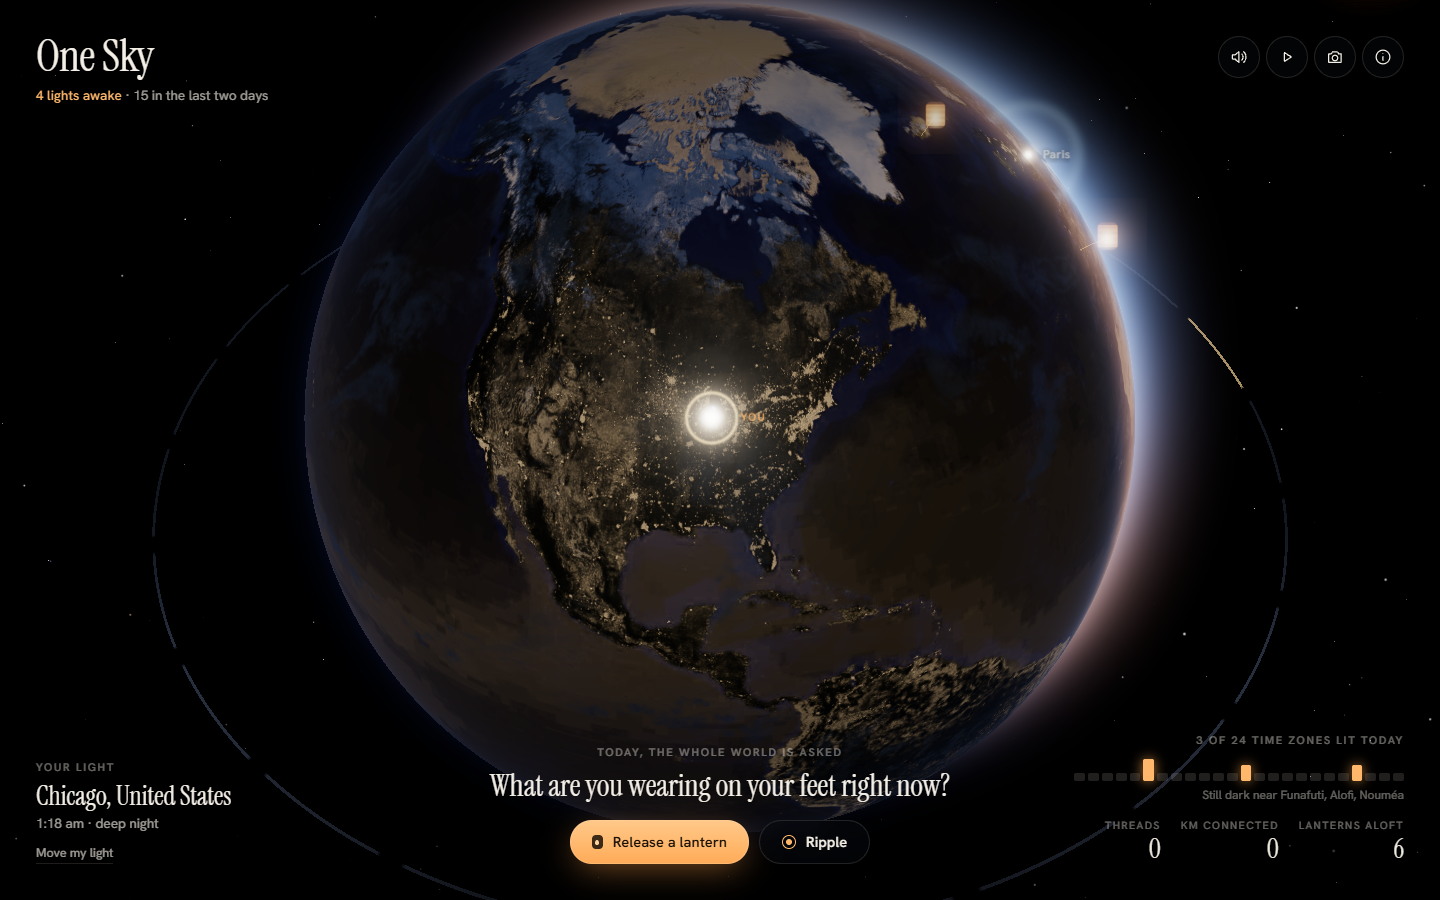
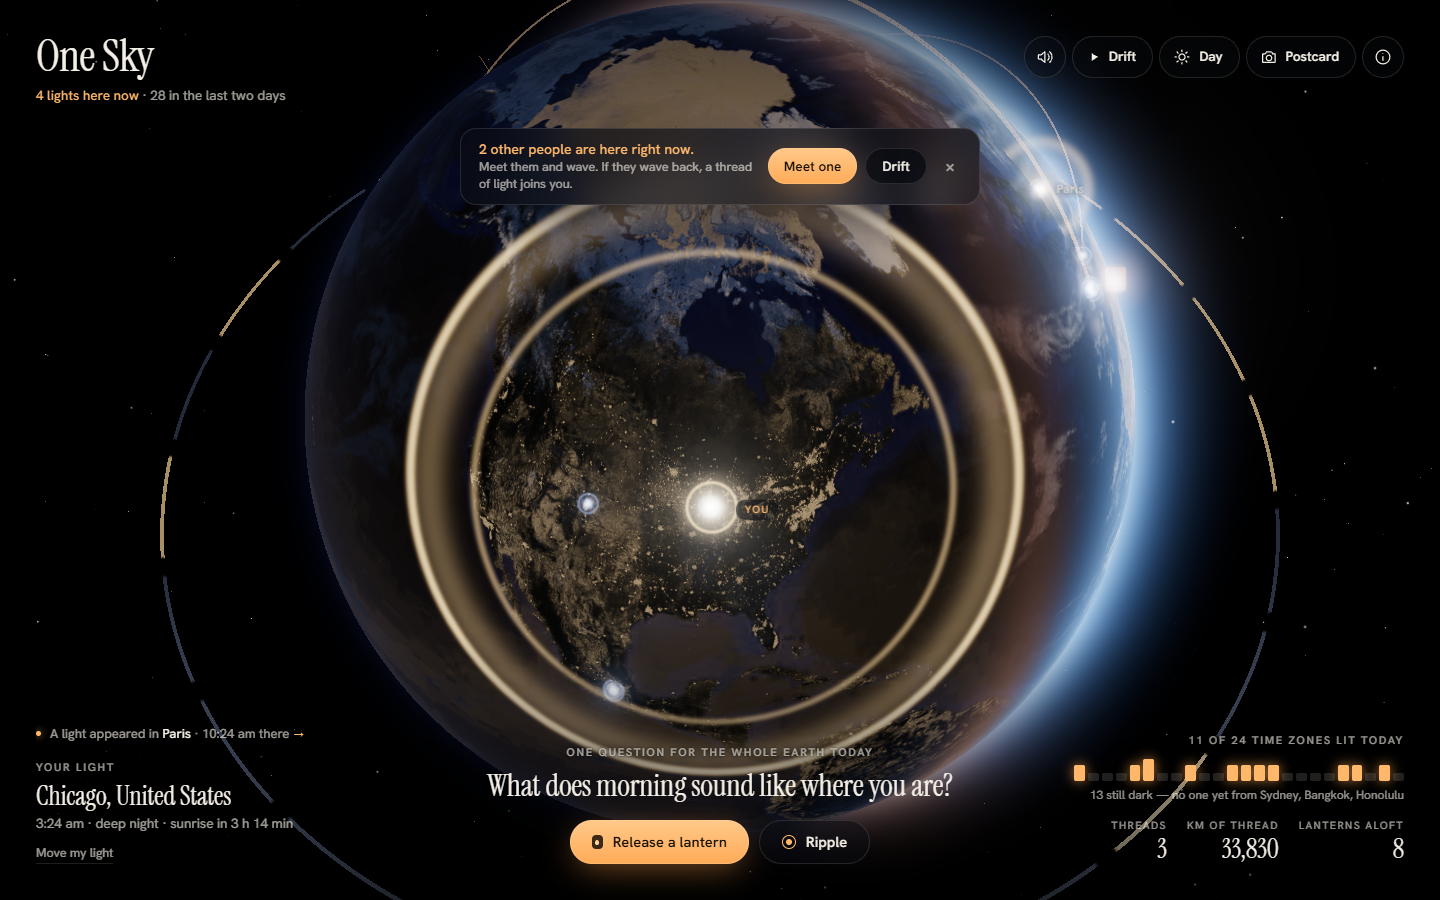
Second visitor pass: remembered threads, live echo cards, coach cards with person-shaped actions, thread camera, postcard framing, copy

diff --git a/src/main.ts b/src/main.ts
@@ -9,7 +9,7 @@ import { AudioEngine } from './audio/engine';
 import { placeForTimeZone, placeForOffset, searchPlaces, jitter, PLACES, type Place } from './lib/tz';
 import { localTimeString, zoneIndex, zoneLabel, utcDay, relativeTime, utcOffsetMinutes } from './lib/time';
 import { skyState, solarElevation } from './lib/sun';
-import { greatCircleKm, formatKm } from './lib/geo';
+import { greatCircleKm, formatKm, latLonToVec3, vec3ToLatLon } from './lib/geo';
 import { questionForDay, QUESTIONS } from './lib/questions';
 import { cleanLantern, reasonMessage, MAX_LANTERN_LENGTH } from './lib/moderation';
 import { $, h, rich, modal, isModalOpen, toast, feed, countTo } from './ui/dom';
@@ -54,6 +54,10 @@ const wavedBy = new Map<string, number>();      // uid → when they last waved 
 const waveToasts = new Map<string, () => void>(); // uid → dismiss their pending "waved at you" banner
 let ringWasComplete = false;
 const threadedWith = new Set<string>();     // uids I already share a thread with
+const threadedAt = new Map<string, number>(); // uid → when our thread formed (this session)
+let lastUserMove = 0;
+let dismissCoach: (() => void) | null = null; // the first-visit hint goes away once the visitor acts
+const nearPt = (a: { lat: number; lon: number }, lat: number, lon: number) => Math.abs(a.lat - lat) < 0.005 && Math.abs(a.lon - lon) < 0.005;
 let pendingEchoWaves: import('./net/sky').EchoWave[] = [];
 
 const echoKey = (e: Echo) => `echo:${e.eid ?? `${e.lat},${e.lon},${e.place}`}`;
@@ -84,6 +88,37 @@ function refreshLights() {
   renderCensus();
 }
 
+/** Work out, from my own threads, which of the people here now I am already joined to. */
+function syncThreaded() {
+  for (const id of marks.threads) {
+    const t = threads.get(id);
+    if (!t) continue;
+    const mineIsA = nearPt(me, t.a_lat, t.a_lon), mineIsB = nearPt(me, t.b_lat, t.b_lon);
+    if (!mineIsA && !mineIsB) continue;
+    const oLat = mineIsA ? t.b_lat : t.a_lat, oLon = mineIsA ? t.b_lon : t.a_lon;
+    for (const p of others()) if (nearPt(p, oLat, oLon)) threadedWith.add(p.id);
+  }
+}
+
+/** Go to the most recent echo and open it. */
+function findEcho() {
+  const e = echoes.find((x) => x.eid) ?? echoes[0];
+  if (e) select({ type: 'light', id: echoKey(e) });
+}
+
+/** Pull back so a new thread can be seen whole, then come home. */
+function showThread(t: Thread) {
+  const a = latLonToVec3(t.a_lat, t.a_lon), b = latLonToVec3(t.b_lat, t.b_lon);
+  const sum: [number, number, number] = [a[0] + b[0], a[1] + b[1], a[2] + b[2]];
+  const len = Math.hypot(sum[0], sum[1], sum[2]);
+  if (len < 0.25 || reducedMotion) return; // nearly opposite sides of the planet: no single view shows both
+  const mid = vec3ToLatLon([sum[0] / len, sum[1] / len, sum[2] / len]);
+  const spread = Math.acos(Math.max(-1, Math.min(1, a[0] * b[0] + a[1] * b[1] + a[2] * b[2])));
+  const started = Date.now();
+  void globe.flyTo(mid.lat, mid.lon, Math.max(globe.homeDist(), 3.3 + spread * 0.95), 1800);
+  setTimeout(() => { if (lastUserMove < started && !selection) void globe.flyTo(me.lat + (me.lat >= 0 ? 9 : -9), me.lon, globe.homeDist(), 2200); }, 6500);
+}
+
 function refreshLanterns() {
   globe.setLanterns([...lanterns.values()].map((l) => ({ id: l.id, lat: l.lat, lon: l.lon, warmth: l.warmth, mine: marks.lanterns.has(l.id) })));
   countTo($('st-lanterns'), lanterns.size);
@@ -101,7 +136,11 @@ function renderCensus() {
   el.classList.toggle('go', entered && n > 1);
   el.append(h('b', {}, live));
   if (stats.lights_48h >= 25) el.append(h('span', { class: 'wide' }, ` · ${stats.lights_48h.toLocaleString('en-US')} in the last two days`));
-  else if (echoes.length >= 2) el.append(h('span', { class: 'wide' }, ` · ${echoes.length} echoes of earlier visitors`));
+  else if (echoes.length >= 1) {
+    const link = h('span', { class: 'go', role: 'button', tabindex: '0' }, `${echoes.length} ${echoes.length === 1 ? 'echo' : 'echoes'} of earlier visitors`);
+    link.addEventListener('click', (e) => { e.stopPropagation(); if (entered) findEcho(); });
+    el.append(h('span', { class: 'wide' }, ' · ', link));
+  }
 }
 
 /** A place where the sun is on the horizon right now, if any. */
@@ -301,10 +340,13 @@ function selectionPoint(): { lat: number; lon: number; r?: number } | null {
 
 const card = $('card');
 let repaintLantern: (() => void) | null = null;
-function closeCard() { if (drift) stopDrift(); repaintLantern = null; selection = null; card.hidden = true; card.replaceChildren(); globe.autoRotate = true; }
+function closeCard() {
+  if (selection && innerWidth <= 1000 && !drift && entered) void globe.flyTo(me.lat + (me.lat >= 0 ? 9 : -9), me.lon, globe.homeDist(), 1300);
+  if (drift) stopDrift(); repaintLantern = null; selection = null; card.hidden = true; card.replaceChildren(); globe.autoRotate = true; }
 
 function select(pick: Pick | null, fly = true) {
   if (!pick) { closeCard(); return; }
+  dismissCoach?.(); dismissCoach = null;
   selection = pick;
   globe.autoRotate = false;
   const pt = selectionPoint();
@@ -339,7 +381,7 @@ function renderPersonCard(id: string) {
   const theyWaved = Date.now() - (wavedBy.get(id) ?? 0) < 10 * 60 * 1000;
   const cooling = Date.now() - (wavedAt.get(id) ?? 0) < 8000;
   const joined = threadedWith.has(id);
-  const note = h('p', { class: 'note' }, joined ? 'A thread of light already joins you two.' : theyWaved ? 'They waved at you. Wave back and a thread of light will join you.' : 'If they wave back, a thread of light stays between you.');
+  const note = h('p', { class: 'note' }, joined ? 'A thread of light joins you two.' : theyWaved ? 'They waved at you. Wave back and a thread of light will join you.' : 'If they wave back, a thread of light stays between you.');
   const btn = h('button', { class: joined ? 'btn ghost' : 'btn primary', disabled: cooling }, cooling ? 'Wave sent' : joined ? 'Wave again' : theyWaved ? 'Wave back' : 'Wave');
   btn.addEventListener('click', () => { void doWave(p); });
   const sk = skyState(p.lat, p.lon, new Date());
@@ -347,7 +389,7 @@ function renderPersonCard(id: string) {
     h('div', { class: `skybar sky-${sk.replace(' ', '-')}`, role: 'img', 'aria-label': `Their sky: ${sk}` }),
     h('p', { class: 'eyebrow' }, 'A light, here right now'),
     h('h2', {}, p.city),
-    h('p', { class: 'sub' }, p.country || ' '),
+    h('p', { class: 'sub' }, p.country && p.country !== p.city ? p.country : ' '),
     facts([
       ['their time', localTimeString(p.tz)],
       ['their sky', skyState(p.lat, p.lon, new Date())],
@@ -379,7 +421,7 @@ function renderEchoCard(id: string) {
       try {
         await sky.waveEcho(e.eid!);
         store.set('onesky.echoWaved', (left + ',' + e.eid).slice(-2000));
-        note.textContent = 'Your wave is waiting for them. They will find it when they return — and you’ll be an echo they can answer.';
+        note.textContent = 'Your wave is waiting. They’ll see it the moment they return.';
         feed(rich(['Your wave is waiting in ', { b: e.place }, ' for when they return']));
       } catch (err: any) {
         btn.disabled = false; btn.textContent = 'Leave a wave';
@@ -498,7 +540,7 @@ async function doWave(p: Person) {
   try {
     const t = await sky.wave(p);
     await landed;
-    if (t) { marks.threads.add(t.id); threadedWith.add(p.id); addThread(t, true, { mine: true, other: p.city }); if (selection?.id === p.id) renderCard(); }
+    if (t) { marks.threads.add(t.id); threadedWith.add(p.id); threadedAt.set(p.id, Date.now()); addThread(t, true, { mine: true, other: p.city }); }
     else feed(rich(['Your wave reached ', { b: p.city }, threadedWith.has(p.id) ? '' : ' — if they wave back, you’re joined']));
   } catch (e: any) {
     toast(rich([String(e?.message).includes('rate_limited') ? 'That’s a lot of waving. Give it a minute.' : 'That wave didn’t get through. Try again in a moment.']), { plain: true });
@@ -515,6 +557,8 @@ function addThread(t: Thread, animate: boolean, opts: { mine?: boolean; other?: 
   stats.threads_total += 1; stats.km_total += t.km; renderStats();
   if (opts.mine) {
     audio.thread(t.km);
+    closeCard();
+    setTimeout(() => showThread(t), 400);
     toast(rich([{ b: `A thread now joins you and someone in ${opts.other}.` }, { small: `${formatKm(t.km)} of light between you. It stays on the Earth for everyone to see.` }]), { ms: 14000 });
   } else if (entered) {
     feed(rich(['A thread now joins ', { b: t.a_place }, ' and ', { b: t.b_place }, ` · ${formatKm(t.km)}`]), false, () => { closeCard(); void globe.flyTo((t.a_lat + t.b_lat) / 2, t.a_lon, undefined, 1400); });
@@ -529,6 +573,7 @@ function doRipple() {
   const now = Date.now();
   if (now - lastRipple < 4000) return;
   lastRipple = now;
+  dismissCoach?.(); dismissCoach = null;
   globe.ripple(me.lat, me.lon);
   audio.ringSegment(Math.round(((me.lon + 180) / 360) * 23));
   sky.sendRipple();
@@ -543,7 +588,7 @@ function doRipple() {
   let near: Place | null = null, bd = 1e9;
   for (const p of PLACES) { const d = greatCircleKm(anti.lat, anti.lon, p.lat, p.lon); if (d < bd) { bd = d; near = p; } }
   const closing = near;
-  setTimeout(() => { if (closing) feed(rich(['Your ripple met itself on the far side of the Earth, ', { b: bd < 600 ? `near ${closing.city}` : `${formatKm(bd)} from ${closing.city}` }]), true); }, 5200);
+  setTimeout(() => { if (closing) feed(rich(bd < 600 ? ['Your ripple circled the Earth and met itself near ', { b: closing.city }] : ['Your ripple circled the Earth and met itself at sea, ', { b: `${formatKm(bd)} from ${closing.city}` }]), true); }, 5200);
 }
 
 // ───────────────────────── drift (a slow tour of the lanterns) ─────────────────────────
@@ -643,6 +688,7 @@ const LANTERN_ERRORS: Record<string, string> = {
 
 function openComposer() {
   if (!entered) return;
+  dismissCoach?.(); dismissCoach = null;
   modal((close) => {
     const ta = h('textarea', { rows: 3, maxlength: MAX_LANTERN_LENGTH, placeholder: 'One or two sentences…', 'aria-label': 'Your answer', 'data-autofocus': true });
     const count = h('span', { class: 'count' }, `${MAX_LANTERN_LENGTH} left`);
@@ -743,7 +789,8 @@ function openAbout() {
       h('div', {}, h('i', { class: 'b' }), h('p', {}, h('strong', {}, 'An echo'), ' is someone who was here in the last two days and has gone. Leave them a wave; they get it when they come back. ', h('strong', {}, 'A soft ring'), ' on the ground is where someone else is looking right now.')),
     ),
     h('p', {}, h('strong', {}, 'Privacy.'), ' No account, no name, no tracking. Your light sits near the main city of your time zone — taken from your device’s clock, not your location — and you can move it. Lanterns are public and anonymous.'),
-    h('p', { class: 'fine' }, 'Nobody on this globe is simulated. Earth imagery: NASA Blue Marble and Black Marble. Drag to turn, scroll or pinch to zoom. Keyboard: arrows turn, + and − zoom, [ and ] step through lights and lanterns, Enter acts, R sends a ripple, D watches a day pass.'),
+    h('p', { class: 'fine' }, 'Nobody on this globe is simulated. Earth imagery: NASA Blue Marble and Black Marble. Drag to turn, scroll or pinch to zoom.'),
+    h('p', { class: 'fine keys-note' }, 'Keyboard: arrows turn, + and − zoom, [ and ] step through lights and lanterns, Enter acts, R sends a ripple, D watches a day pass.'),
   ), { label: 'About One Sky' });
 }
 
@@ -751,6 +798,7 @@ function openAbout() {
 
 async function openPostcard() {
   stopDrift();
+  if (!selection) await globe.flyTo(Math.max(-70, Math.min(70, me.lat + (me.lat >= 0 ? 9 : -9))), me.lon, globe.homeDist(), 700);
   const shot = globe.capture();
   const url = await makePostcard(shot, {
     place: me.city, lights: liveCount(), zones: zonesLit.size, threads: stats.threads_total, km: stats.km_total, question: question.text,
@@ -782,6 +830,12 @@ function wireSky() {
 
   sky.on('people', (_all, joined, left) => {
     refreshLights();
+    syncThreaded();
+    if (selection?.id.startsWith('echo:')) {
+      const e = echoById(selection.id);
+      const back = e && joined.find((p) => p.id !== sky.uid && nearPt(p, e.lat, e.lon));
+      if (back) select({ type: 'light', id: back.id }, false);
+    }
     if (entered) {
       for (const p of joined.slice(0, 4)) {
         if (p.id === sky.uid) continue;
@@ -792,7 +846,7 @@ function wireSky() {
       left.forEach((p, i) => {
         if (p.id === sky.uid) return;
         globe.dropGaze(p.id);
-        if (i < 4) feed(rich(['The light in ', { b: p.city }, ' has left']), true);
+        if (i < 4) feed(rich(['The light in ', { b: p.city }, ' has left']), true, () => { const e = echoes.find((x) => nearPt(x, p.lat, p.lon)); if (e) select({ type: 'light', id: echoKey(e) }); });
         // they become an echo straight away
         const known = echoes.find((x) => Math.abs(x.lat - p.lat) < 0.002 && Math.abs(x.lon - p.lon) < 0.002);
         if (known) known.last_seen = new Date().toISOString();
@@ -823,7 +877,7 @@ function wireSky() {
       const goTo = () => { const p = sky.people.get(from.id); if (p) select({ type: 'light', id: p.id }); };
       if (threadedWith.has(from.id)) {
         // already joined: a light touch, no prompt
-        feed(rich([{ b: from.city }, ' waved at you again']), false, goTo);
+        if (Date.now() - (threadedAt.get(from.id) ?? 0) > 20000) feed(rich([{ b: from.city }, ' waved at you again']), false, goTo);
         return;
       }
       waveToasts.get(from.id)?.();
@@ -852,9 +906,8 @@ function wireSky() {
           marks.threads.add(t.id);
           const mineIsA = near(t.a_lat, t.a_lon);
           const oLat = mineIsA ? t.b_lat : t.a_lat, oLon = mineIsA ? t.b_lon : t.a_lon;
-          for (const p of others()) if (Math.abs(p.lat - oLat) < 0.005 && Math.abs(p.lon - oLon) < 0.005) { threadedWith.add(p.id); waveToasts.get(p.id)?.(); }
+          for (const p of others()) if (Math.abs(p.lat - oLat) < 0.005 && Math.abs(p.lon - oLon) < 0.005) { threadedWith.add(p.id); threadedAt.set(p.id, Date.now()); waveToasts.get(p.id)?.(); }
           addThread(t, true, { mine: true, other: mineIsA ? t.b_place : t.a_place });
-          if (selection?.type === 'light') renderCard();
           return;
         }
       }
@@ -899,7 +952,7 @@ async function loadWorld() {
   if (st) stats = st;
   for (const z of zs) zonesLit.set(z.zone, z);
   ringWasComplete = zonesLit.size === 24;
-  refreshLanterns(); refreshLights(); renderStats(); renderRing(false);
+  refreshLanterns(); refreshLights(); renderStats(); renderRing(false); syncThreaded();
   pendingEchoWaves = await sky.collectEchoWaves().catch(() => []);
 }
 
@@ -964,18 +1017,19 @@ function receiveEchoWaves() {
   }, i * 700));
   const first = waves[0];
   const rest = waves.length - 1;
+  const liveNow = () => others().find((p) => nearPt(p, first.lat, first.lon));
   const answer = () => {
-    // if they are here now, open their light; otherwise go to where their echo is
-    const live = others().find((p) => Math.abs(p.lat - first.lat) < 0.005 && Math.abs(p.lon - first.lon) < 0.005);
-    if (live) { select({ type: 'light', id: live.id }); return; }
-    const echo = echoes.find((e) => Math.abs(e.lat - first.lat) < 0.005 && Math.abs(e.lon - first.lon) < 0.005);
+    // if they are here now, wave straight back; otherwise open their echo so a wave can be left
+    const live = liveNow();
+    if (live) { select({ type: 'light', id: live.id }); void doWave(live); return; }
+    const echo = echoes.find((e) => nearPt(e, first.lat, first.lon));
     if (echo) select({ type: 'light', id: echoKey(echo) });
     else void globe.flyTo(first.lat, first.lon, undefined, 1400);
   };
   toast(rich([
     { b: waves.length === 1 ? `While you were away, someone in ${first.place} waved at you.` : `While you were away, ${waves.length} people waved at you.` },
-    { small: waves.length === 1 ? `${relativeTime(first.created_at)} · they waved at the place your light had been` : `${first.place}${rest === 1 ? ' and one other place' : ` and ${rest} other places`} · at the place your light had been` },
-  ]), { sticky: true, action: { label: waves.length === 1 ? 'Answer them' : 'See the nearest', run: answer } });
+    { small: waves.length === 1 ? `${relativeTime(first.created_at)} · ${liveNow() ? 'and they are still here' : 'they left it where your light had been'}` : `${first.place}${rest === 1 ? ' and one other place' : ` and ${rest} other places`} · at the place your light had been` },
+  ]), { sticky: true, action: { label: liveNow() ? 'Wave back' : 'Find their echo', run: answer } });
 }
 
 /** On return: has anyone warmed my lanterns since I last looked? */
@@ -1055,13 +1109,15 @@ async function enter() {
     setTimeout(() => {
       const n = others().length;
       const copyLink = async () => { try { await navigator.clipboard.writeText(location.href.split(/[?#]/)[0]); toast(rich(['Link copied. Send it to someone and watch their light appear.']), { plain: true }); } catch { /* clipboard unavailable */ } };
-      if (n > 0) toast(
-        rich([{ b: 'Select a bright light to meet that person — and wave.' }, { small: 'Drag to turn the Earth. Or press Day to watch the next 24 hours pass.' }]),
-        { plain: true, ms: 14000, actions: lanterns.size ? [{ label: 'Drift through the lanterns', run: startDrift }] : [] },
-      );
-      else toast(
-        rich([{ b: 'Yours is the only light here right now.' }, { small: echoes.length ? 'Send a ripple around the Earth, leave a wave on a blue echo — or invite someone and watch their light appear.' : 'Send a ripple around the Earth — or invite someone and watch their light appear.' }]),
-        { plain: true, ms: 20000, actions: [{ label: 'Send a ripple', run: doRipple }, { label: 'Copy link', run: () => void copyLink(), quiet: true }] },
+      if (n > 0) {
+        const them = others()[0];
+        dismissCoach = toast(
+          rich([{ b: n === 1 ? `Someone in ${them.city} is here right now.` : `${n} other people are here right now.` }, { small: 'Meet them and wave. If they wave back, a thread of light joins you.' }]),
+          { plain: true, sticky: true, actions: [{ label: n === 1 ? 'Meet them' : 'Meet one', run: () => { const p = sky.people.get(them.id) ?? others()[0]; if (p) select({ type: 'light', id: p.id }); } }, ...(lanterns.size ? [{ label: 'Drift', run: startDrift, quiet: true }] : [])] },
+        );
+      } else dismissCoach = toast(
+        rich([{ b: 'Yours is the only light here right now.' }, { small: echoes.length ? 'Send a ripple around the Earth. Or find an echo — someone who was here earlier — and leave them a wave.' : 'Send a ripple around the Earth — or invite someone and watch their light appear.' }]),
+        { plain: true, sticky: true, actions: [{ label: 'Send a ripple', run: doRipple }, ...(echoes.length ? [{ label: 'Find an echo', run: findEcho, quiet: true }] : []), { label: 'Copy link', run: () => void copyLink(), quiet: true }] },
       );
     }, 1600);
   }
@@ -1090,6 +1146,7 @@ function boot() {
   buildRingStrip(); renderYou(); renderCensus(); updateArrivalCount();
 
   globe.onFrame(updateLabels);
+  globe.onUserMove = () => { lastUserMove = Date.now(); };
   globe.onTap = (pick, ev) => {
     if (!entered || isModalOpen()) return;
     const hadSelection = !!selection;

diff --git a/src/ui/postcard.ts b/src/ui/postcard.ts
@@ -57,10 +57,10 @@ export async function makePostcard(shot: string, info: PostcardInfo): Promise<st
 
   // numbers, bottom left
   const cols: [string, string][] = [
-    [String(info.lights), info.lights === 1 ? 'light awake' : 'lights awake'],
+    [String(info.lights), info.lights === 1 ? 'light here now' : 'lights here now'],
     [`${info.zones}/24`, 'time zones lit'],
     [info.threads.toLocaleString('en-US'), info.threads === 1 ? 'thread' : 'threads'],
-    [Math.round(info.km).toLocaleString('en-US'), 'km connected'],
+    [Math.round(info.km).toLocaleString('en-US'), 'km of thread'],
   ];
   let x = M;
   const shown = cols.filter(([n]) => n !== '0').slice(0, portrait ? 2 : 4);

diff --git a/src/styles.css b/src/styles.css
@@ -464,3 +464,14 @@ body:has(.scrim) :is(.ask, .you, .world, .tools) { opacity: 0; pointer-events: n
   .brand p { width: 0; overflow: visible; }
   .tools { flex-shrink: 0; }
 }
+
+/* second visitor pass */
+.feed li { white-space: normal; }
+.feed li.go { animation: feed-in 0.7s var(--ease) forwards, feed-out 1.2s ease 38.5s forwards; }
+#census .go { cursor: pointer; }
+#census .go:hover { text-decoration: underline; text-underline-offset: 3px; }
+@media (max-width: 1000px) {
+  .toast-close { width: 44px; height: 44px; margin: 0 -8px 0 -8px; }
+  .modal { padding-bottom: 28px; }
+}
+@media (hover: none) { .keys-note { display: none; } }

diff --git a/tests/e2e/sky.spec.ts b/tests/e2e/sky.spec.ts
@@ -148,7 +148,7 @@ test('a wave left for an echo is delivered when that person comes back', async (
   await b.evaluate((id) => (window as any).__onesky.select({ type: 'light', id }), key);
   await expect(b.locator('#card h2')).toHaveText('Tokyo');
   await b.locator('#card button.btn.primary').click();
-  await expect(b.locator('#card .note')).toContainText('waiting for them');
+  await expect(b.locator('#card .note')).toContainText('Your wave is waiting');
 
   // A comes back and is told
   const a2 = await ctxA.newPage();

diff --git a/src/globe/globe.ts b/src/globe/globe.ts
@@ -556,7 +556,7 @@ export class Globe {
           const r = el.getBoundingClientRect();
           const x = e.clientX - r.left, y = e.clientY - r.top;
           this.vLat = this.vLon = 0;
-          this.onTap(this.pick(x, y, e.pointerType === 'mouse' ? 22 : 34), { x: e.clientX, y: e.clientY });
+          this.onTap(this.pick(x, y, e.pointerType === 'mouse' ? 30 : 38), { x: e.clientX, y: e.clientY });
         }
       }
       this.pinchStart = 0;

diff --git a/src/ui/dom.ts b/src/ui/dom.ts
@@ -107,7 +107,7 @@ export function feed(content: Node, cool = false, go?: () => void) {
   }
   list.append(li);
   while (list.children.length > 4) list.firstElementChild!.remove();
-  setTimeout(() => li.remove(), go ? 16000 : 10500);
+  setTimeout(() => li.remove(), go ? 40000 : 10500);
 }
 
 /** Count a number up or down to a new value. */
